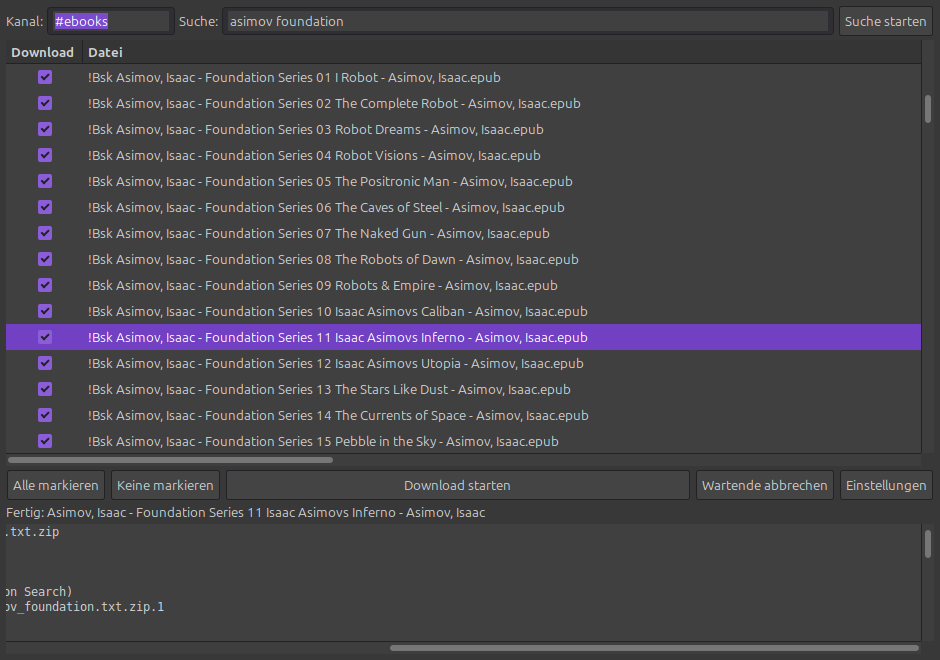
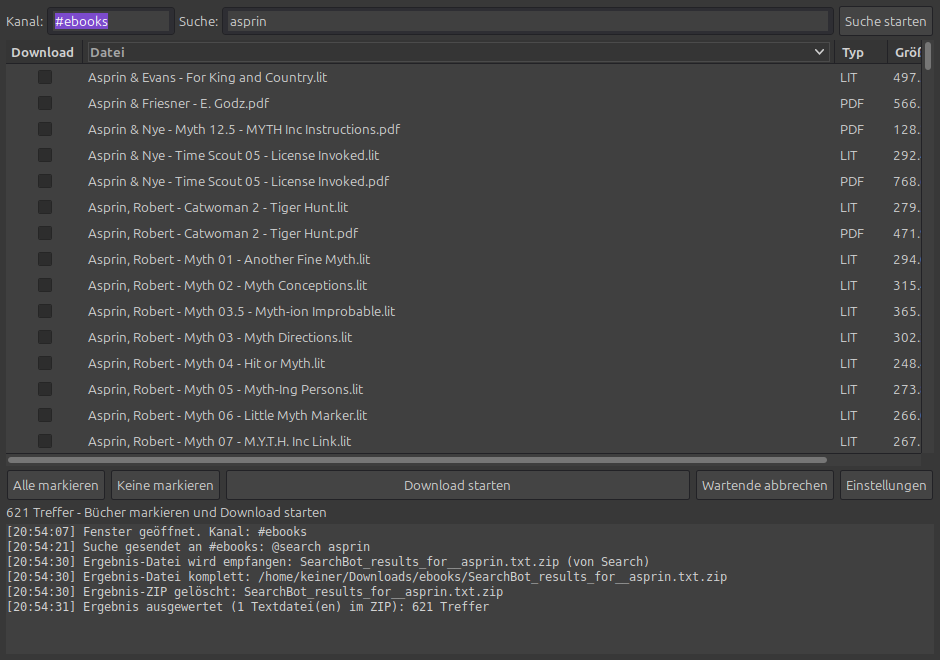
Dateityp-Spalte + sortierbare Liste (Name, Typ, Größe) + Tests + Screenshot

diff --git a/ebookdl.py b/ebookdl.py
@@ -75,13 +75,19 @@ def format_bytes(num):
     return '?'
 
 
+def filetype_of(filename):
+    """Dateityp (Endung) aus dem Dateinamen, z. B. 'PDF', 'EPUB', '-'."""
+    ext = os.path.splitext(filename or '')[1].lstrip('.').lower()
+    return ext.upper() if ext else '-'
+
+
 def parse_result_line(line):
     """
     Eine Zeile aus der Ergebnisdatei parsen, z. B.:
 
       !artemis_serv 16d6770d2ba9 | 27 - The Last Hero - Graphic Novel.pdf ::INFO:: 49.78MB
 
-    -> dict(request, filename, size, botnick) oder None.
+    -> dict(request, filename, size, botnick, filetype) oder None.
     """
     line = line.strip()
     if not line.startswith('!'):
@@ -101,6 +107,7 @@ def parse_result_line(line):
     return {
         'request': request,
         'filename': filename,
+        'filetype': filetype_of(filename),
         'size': size,
         'botnick': botnick,
         'size_bytes': parse_size(size),
@@ -421,11 +428,11 @@ class EbookDLPlugin(object):
         while it is not None:
             if self.model.get_value(it, 0):
                 rows.append({
-                    'request': self.model.get_value(it, 3),
+                    'request': self.model.get_value(it, 4),
                     'filename': self.model.get_value(it, 1),
-                    'size': self.model.get_value(it, 2),
-                    'botnick': self.model.get_value(it, 4),
-                    'size_bytes': parse_size(self.model.get_value(it, 2)),
+                    'size': self.model.get_value(it, 3),
+                    'botnick': self.model.get_value(it, 5),
+                    'size_bytes': self.model.get_value(it, 7) or 0.0,
                 })
             it = self.model.iter_next(it)
         if not rows:
@@ -479,8 +486,8 @@ class EbookDLPlugin(object):
             return
         it = self.model.get_iter_first()
         while it is not None:
-            if self.model.get_value(it, 3) == request:
-                self.model.set_value(it, 5, status)
+            if self.model.get_value(it, 4) == request:
+                self.model.set_value(it, 6, status)
                 return
             it = self.model.iter_next(it)
 
@@ -490,7 +497,7 @@ class EbookDLPlugin(object):
             return
         it = self.model.get_iter_first()
         while it is not None:
-            if self.model.get_value(it, 3) == request:
+            if self.model.get_value(it, 4) == request:
                 self.model.set_value(it, 0, bool(checked))
                 return
             it = self.model.iter_next(it)
@@ -764,8 +771,11 @@ class EbookDLPlugin(object):
             if self.model is not None:
                 self.model.clear()
                 for r in results:
-                    self.model.append([False, r['filename'], r['size'],
-                                       r['request'], r['botnick'], ''])
+                    self.model.append([False, r['filename'],
+                                       r.get('filetype', filetype_of(r['filename'])),
+                                       r['size'], r['request'], r['botnick'], '',
+                                       float(r.get('size_bytes') or 0.0),
+                                       r['filename'].lower()])
             self.set_status('%d Treffer - Bücher markieren und Download starten' % len(results))
         elif kind == 'moved':
             _, req, final, hinweis, error = msg
@@ -831,10 +841,15 @@ class EbookDLPlugin(object):
         vbox.pack_start(head, False, False, 0)
 
         # -- Ergebnisliste
-        self.model = Gtk.ListStore(bool, str, str, str, str, str)
+        # Spalten: 0 Check, 1 Datei, 2 Typ, 3 Größe, 4 Request, 5 Bot,
+        #          6 Status, 7 Größe-Bytes (Sortierung), 8 Datei-Klein (Sortierung)
+        self.model = Gtk.ListStore(bool, str, str, str, str, str, str, float, str)
         for r in self.results:
-            self.model.append([False, r['filename'], r['size'],
-                               r['request'], r['botnick'], ''])
+            self.model.append([False, r['filename'],
+                               r.get('filetype', filetype_of(r['filename'])),
+                               r['size'], r['request'], r['botnick'], '',
+                               float(r.get('size_bytes') or 0.0),
+                               r['filename'].lower()])
         tree = Gtk.TreeView()
         tree.set_model(self.model)
         tree.set_rules_hint(True)
@@ -845,11 +860,18 @@ class EbookDLPlugin(object):
         col_toggle = Gtk.TreeViewColumn('Download', rend_toggle, active=0)
         col_toggle.set_fixed_width(70)
         tree.append_column(col_toggle)
-        tree.append_column(Gtk.TreeViewColumn('Datei', Gtk.CellRendererText(), text=1))
-        col_size = Gtk.TreeViewColumn('Größe', Gtk.CellRendererText(), text=2)
+        col_name = Gtk.TreeViewColumn('Datei', Gtk.CellRendererText(), text=1)
+        col_name.set_sort_column_id(8)  # case-insensitive über Klein-Name
+        tree.append_column(col_name)
+        col_type = Gtk.TreeViewColumn('Typ', Gtk.CellRendererText(), text=2)
+        col_type.set_sort_column_id(2)
+        col_type.set_fixed_width(70)
+        tree.append_column(col_type)
+        col_size = Gtk.TreeViewColumn('Größe', Gtk.CellRendererText(), text=3)
+        col_size.set_sort_column_id(7)  # numerisch nach Bytes
         col_size.set_fixed_width(90)
         tree.append_column(col_size)
-        col_status = Gtk.TreeViewColumn('Status', Gtk.CellRendererText(), text=5)
+        col_status = Gtk.TreeViewColumn('Status', Gtk.CellRendererText(), text=6)
         col_status.set_fixed_width(240)
         tree.append_column(col_status)
         sw = Gtk.ScrolledWindow()

diff --git a/test_ebookdl.py b/test_ebookdl.py
@@ -67,11 +67,29 @@ stub = StubHexchat()
 sys.modules['hexchat'] = stub
 sys.path.insert(0, BASE)
 
+# Minimale ListStore-Emulation (Layout wie im Plugin: 0 Check, 1 Datei,
+# 2 Typ, 3 Größe, 4 Request, 5 Bot, 6 Status, 7 Bytes, 8 Klein-Name)
+class FakeModel(object):
+    def __init__(self, rows):
+        self.rows = rows
+    def clear(self):
+        self.rows = []
+    def append(self, row):
+        self.rows.append(list(row))
+    def get_iter_first(self):
+        return 0 if self.rows else None
+    def iter_next(self, it):
+        return it + 1 if it + 1 < len(self.rows) else None
+    def get_value(self, it, col):
+        return self.rows[it][col]
+    def set_value(self, it, col, val):
+        self.rows[it][col] = val
+
 import ebookdl
 ebookdl.release_single_instance()  # Import-löst main() aus -> Marker zurücksetzen
 from ebookdl import (parse_result_line, parse_results_text, parse_results_zip,
                      nick_matches, name_matches, move_to_target, unique_path,
-                     format_bytes, parse_size)
+                     format_bytes, parse_size, filetype_of)
 
 passed = 0
 failed = 0
@@ -95,6 +113,9 @@ check('parse: filename', item is not None and item['filename'] == '27 - The Last
 check('parse: size', item is not None and item['size'] == '49.78MB')
 check('parse: botnick', item is not None and item['botnick'] == 'artemis_serv')
 check('parse: size_bytes', item is not None and abs(item['size_bytes'] - 49.78 * 1024 * 1024) < 1)
+check('parse: filetype', item is not None and item['filetype'] == 'PDF')
+check('filetype: mehrfach-endung', filetype_of('Buch.Name.Tar.GZ') == 'GZ')
+check('filetype: keine endung', filetype_of('ohne_endung') == '-')
 check('parse: junk line', parse_result_line('just some text') is None)
 check('parse: no INFO', parse_result_line('!foo_serv abc | x.pdf') is None)
 
@@ -270,6 +291,16 @@ while realnow() < deadline and os.path.exists(res_file):
     realtime.sleep(0.05)
 check('ergebnis-zip geloescht', not os.path.exists(res_file))
 
+# Neue Spalten im Model: Typ (2), Bytes (7), Klein-Name (8)
+fm2 = FakeModel([])
+p.model = fm2
+p.handle_ui_msg(('results', p.results, '1 Datei', 'x'))
+check('results: spalte typ', len(fm2.rows) == 2 and fm2.rows[0][2] == 'PDF')
+check('results: spalte groesse', len(fm2.rows) == 2 and fm2.rows[0][3] == '49.78MB')
+check('results: spalte bytes', len(fm2.rows) == 2 and abs(fm2.rows[0][7] - 49.78 * 1024 * 1024) < 1)
+check('results: spalte kleinname', len(fm2.rows) == 2
+      and fm2.rows[0][8] == '27 - the last hero - graphic novel.pdf')
+
 # Complete: Download-Datei -> moved
 dl_item = p.downloads[rows[1]['request']]
 dl_item['state'] = 'angefragt'
@@ -278,20 +309,8 @@ dl_file = os.path.join(TMP, 'completed', 'Book One.pdf')
 with open(dl_file, 'wb') as fh:
     fh.write(b'fake pdf')
 
-# Minimale ListStore-Emulation, um die Checkbox-Abwahl zu prüfen
-class FakeModel(object):
-    def __init__(self, rows):
-        self.rows = rows
-    def get_iter_first(self):
-        return 0 if self.rows else None
-    def iter_next(self, it):
-        return it + 1 if it + 1 < len(self.rows) else None
-    def get_value(self, it, col):
-        return self.rows[it][col]
-    def set_value(self, it, col, val):
-        self.rows[it][col] = val
-
-fm = FakeModel([[True, 'Book One.pdf', '1.0MB', rows[1]['request'], 'artemis_serv', '']])
+# Checkbox-Abwahl nach Download prüfen (FakeModel oben definiert)
+fm = FakeModel([[True, 'Book One.pdf', 'PDF', '1.0MB', rows[1]['request'], 'artemis_serv', '']])
 p.model = fm
 p.on_dcc_complete(['Book One.pdf', dl_file, 'artemis_serv', '99999'], None, None)
 # Verschieben läuft im Thread -> pollen bis Datei im Ziel liegt

diff --git a/README.md b/README.md
@@ -27,6 +27,8 @@ Plugin standardmäßig eingestellt und anpassbar.
 - Such- und Download-Fenster direkt aus HexChat (`/ebookdl`)
 - Automatische Erkennung der Ergebnis-ZIP (kein manuelles Öffnen nötig)
 - Trefferliste mit Größenangabe, Checkboxen und Status-Spalte
+- **Sortierbare Liste**: Klick auf die Kopfzeile sortiert nach Name
+  (case-insensitive), Dateityp oder Größe (numerisch)
 - Warteschlange mit strikter Netiquette: eine Anfrage pro Pause-Intervall,
   begrenzte parallele Downloads, Timeouts
 - DCC-Zuordnung per Bot-Nick und Dateiname (mit FIFO-Fallback)
@@ -115,9 +117,14 @@ Plugin standardmäßig eingestellt und anpassbar.
 | Bereich            | Inhalt                                                              |
 |---------------------|---------------------------------------------------------------------|
 | Kopfzeile           | Kanal-Feld (Anzeige), Suchfeld, **Suche starten**-Button            |
-| Tabelle             | Checkbox, Dateiname, Größe, Status                                  |
+| Tabelle             | Checkbox, Dateiname, **Dateityp** (Endung), Größe, Status           |
 | Button-Leiste       | Alle markieren / Keine markieren / Download starten / Wartende abbrechen / Einstellungen |
 | Fortschrittsbereich | Statuszeile, Fortschrittsbalken, Log mit Zeitstempel                |
+
+**Sortieren**: Klick auf eine Kopfzeile sortiert die Liste — **Datei**
+(case-insensitive), **Typ** (alphabetisch) oder **Größe** (numerisch).
+Ein zweiter Klick kehrt die Reihenfolge um; der Pfeil in der Kopfzeile
+zeigt die aktive Sortierung.
 
 ### Suche
 
